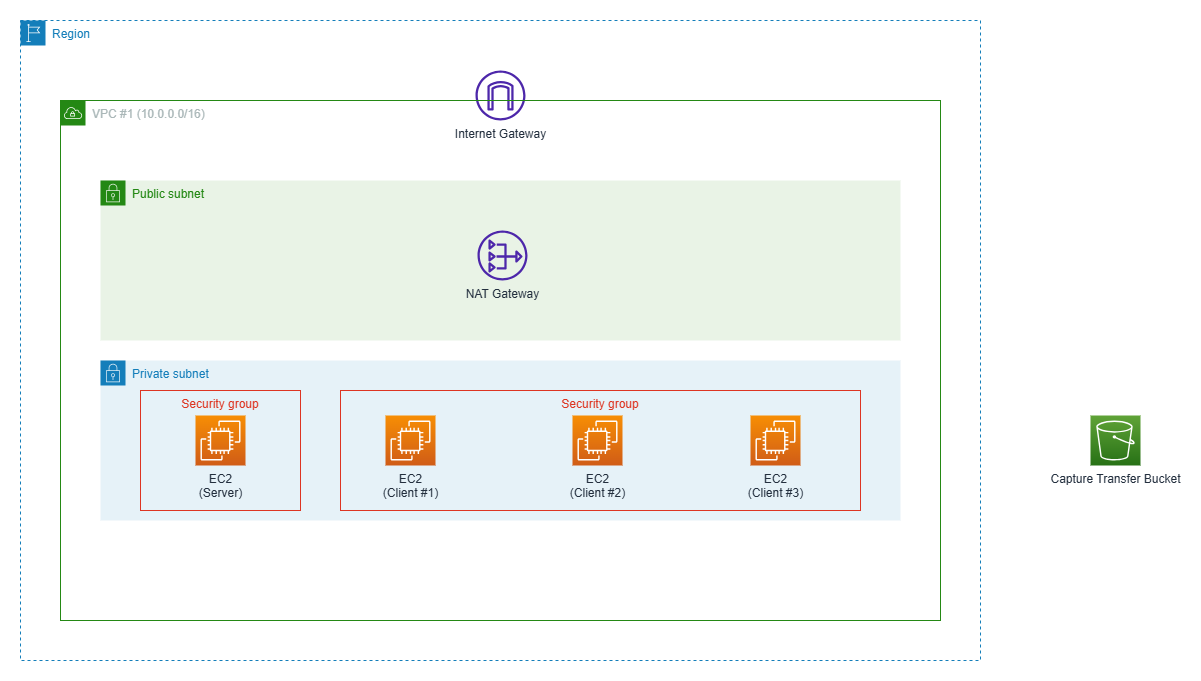
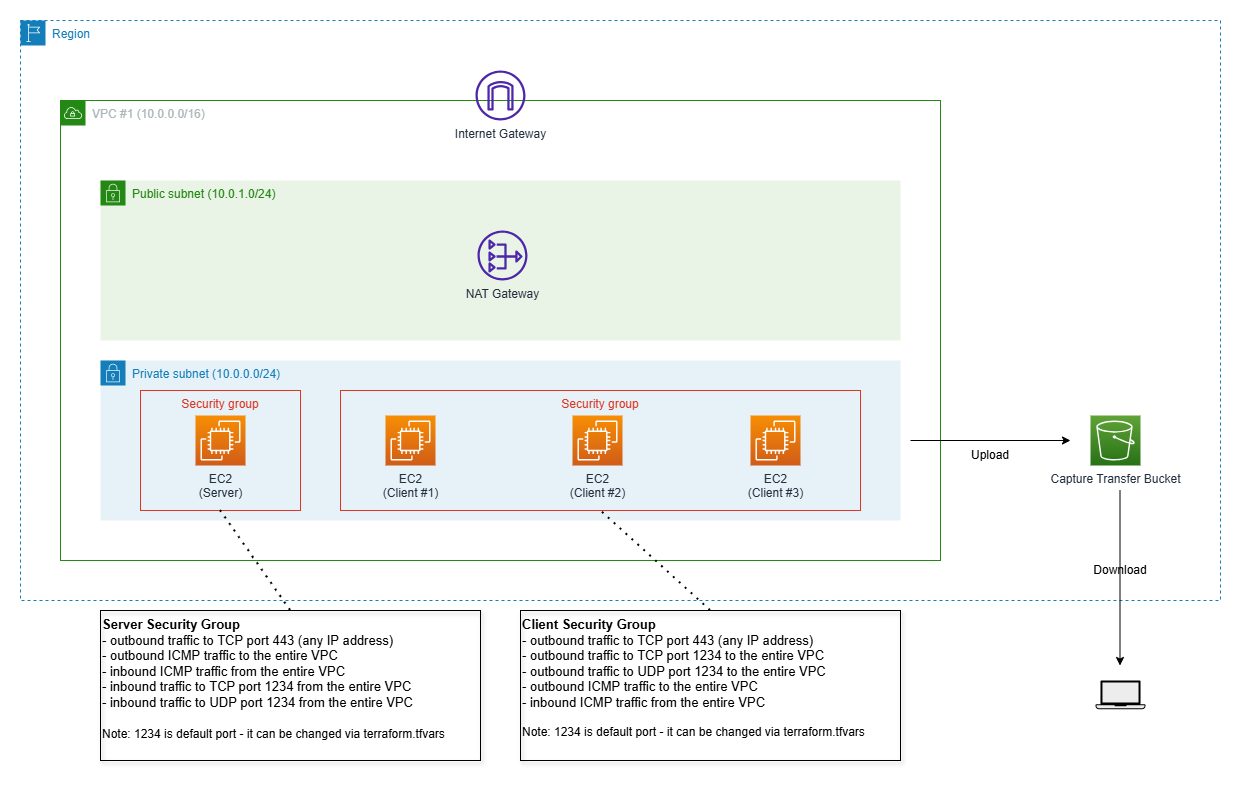
Blog finalization (#10)

Changed region(s): [[0.0308, 0.0925, 0.9858, 0.9868], [0.0, 0.0, 0.0924, 0.0925], [0.8626, 0.8634, 0.9242, 0.9251]]

diff --git a/AWS-Infrastructure/README.md b/AWS-Infrastructure/README.md
@@ -23,9 +23,9 @@ The **EC2 instances labeled as clients** are intended to run client-side applica
 
 The security groups attached to the EC2 instances are configured according to these intended roles. Network traffic is permitted only when instances operate in their designated server or client roles. If you change these roles (for example, by running server applications on a client instance or vice versa), network traffic may be blocked by the security groups.
 
-By default, the Terraform configuration assumes that the demo applications use TCP port 1234 and UDP port 1234. These ports are explicitly allowed by the security groups. If you want to use different ports, you must update the corresponding values in the [terraform.tfvars](./terraform.tfvars) file before deploying the infrastructure (look at the [variables.tf](./variables.tf) file to see which variables can be used to customize the configuration). In addition to TCP and UDP traffic, the security groups also allow the ICMP protocol, so tools such as ping work out of the box and can be used for basic connectivity testing.
+By **default**, the Terraform configuration assumes that the demo applications use **TCP port 1234** and **UDP port 1234**. These ports are explicitly allowed by the security groups. If you want to use different ports, you must update the corresponding values in the [terraform.tfvars](./terraform.tfvars) file before deploying the infrastructure (look at the [variables.tf](./variables.tf) file to see which variables can be used to customize the configuration). In addition to TCP and UDP traffic, the security groups also allow the ICMP protocol, so tools such as `ping` work out of the box and can be used for basic connectivity testing.
 
-The VPC is associated with a Route 53 private hosted zone, and Terraform automatically creates DNS records for all EC2 instances. By default, the following DNS names are assigned:
+The VPC is associated with a Route 53 private hosted zone, and Terraform automatically creates DNS records for all EC2 instances. By default, the following **DNS names** are assigned:
 
 - server.tcp-ip-sandbox.jch
 - client-1.tcp-ip-sandbox.jch
